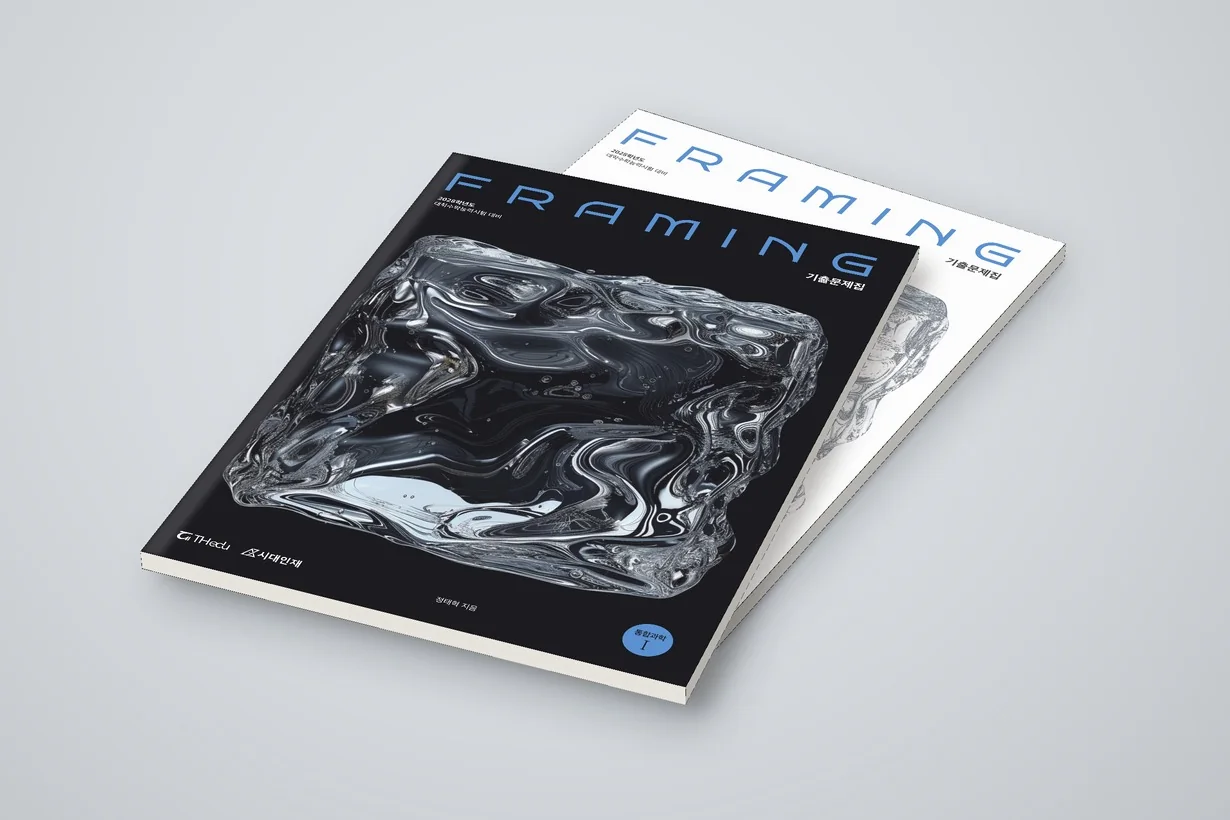
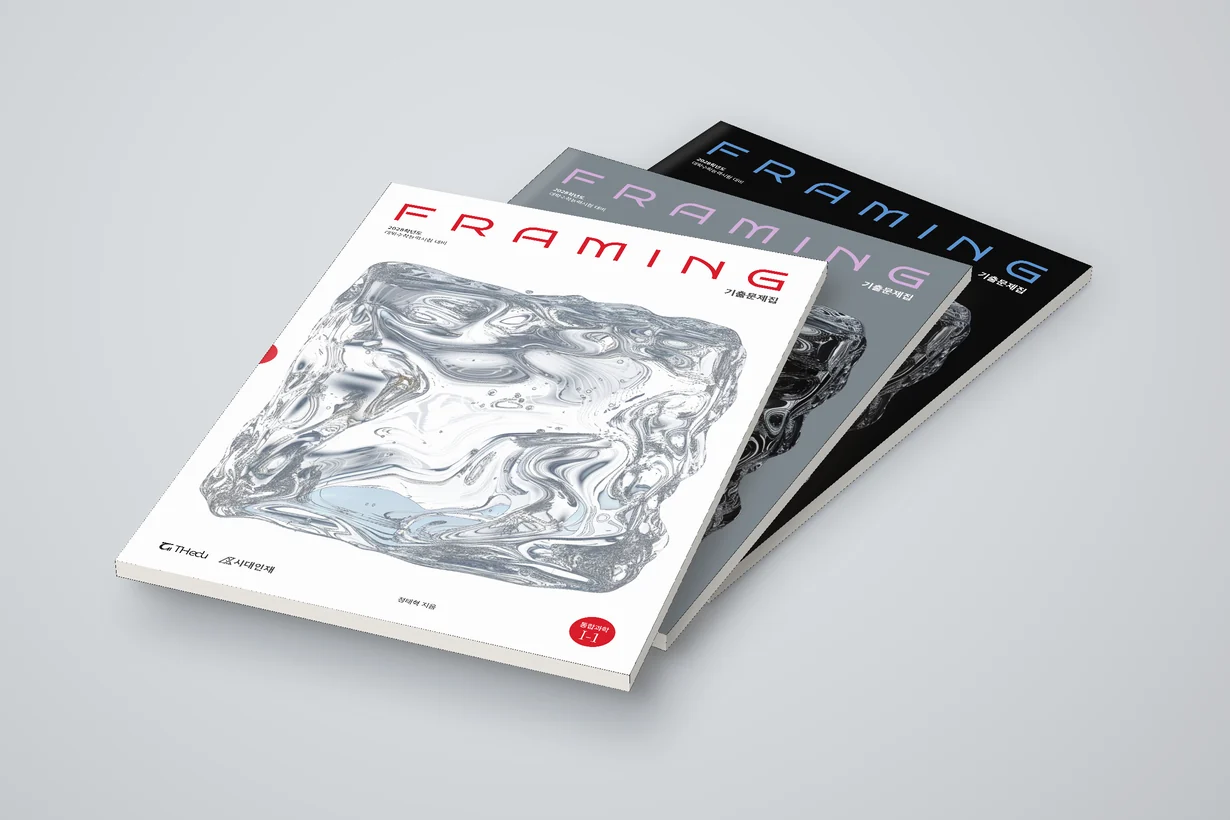
홈·교재 구매: FRAMING 기출문제집 3권(I-1 흰·빨강 맨 위), LINE UP 빨강 위로, LOGIC BUILD 추가
Claude-Session: https://claude.ai/code/session_01VvfvubEaWpfXXiowvcu4dN

diff --git a/lms/templates/home.html b/lms/templates/home.html
@@ -38,7 +38,7 @@
         <img src="{{ url_for('static', filename='img/books/lineup-cover-720.webp') }}"
              srcset="{{ url_for('static', filename='img/books/lineup-cover-720.webp') }} 720w, {{ url_for('static', filename='img/books/lineup-cover.webp') }} 1230w"
              sizes="(max-width: 560px) 100vw, 45vw" width="1230" height="820" loading="lazy"
-             alt="LINE UP 통합과학 I과 II 두 권이 바닥에 비스듬히 겹쳐 놓여 있다">
+             alt="LINE UP 통합과학 II(빨강)와 I 두 권이 바닥에 비스듬히 겹쳐 놓여 있다">
       </figure>
       <div class="book-meta">
         <p class="book-name">LINE UP</p>
@@ -50,11 +50,23 @@
         <img src="{{ url_for('static', filename='img/books/framing-cover-720.webp') }}"
              srcset="{{ url_for('static', filename='img/books/framing-cover-720.webp') }} 720w, {{ url_for('static', filename='img/books/framing-cover.webp') }} 1230w"
              sizes="(max-width: 560px) 100vw, 45vw" width="1230" height="820" loading="lazy"
-             alt="FRAMING 검은 표지와 흰 표지 두 권이 바닥에 비스듬히 겹쳐 놓여 있다">
+             alt="FRAMING 흰 표지(통합과학 I-1), 회색 표지(I-2), 검은 표지(II) 세 권이 바닥에 비스듬히 겹쳐 놓여 있다">
       </figure>
       <div class="book-meta">
         <p class="book-name">FRAMING</p>
-        <p class="book-sub">기출 분석집</p>
+        <p class="book-sub">기출문제집</p>
+      </div>
+    </li>
+    <li class="book-item">
+      <figure class="book-photo">
+        <img src="{{ url_for('static', filename='img/books/logic-cover-720.webp') }}"
+             srcset="{{ url_for('static', filename='img/books/logic-cover-720.webp') }} 720w, {{ url_for('static', filename='img/books/logic-cover.webp') }} 1230w"
+             sizes="(max-width: 560px) 100vw, 45vw" width="1230" height="820" loading="lazy"
+             alt="LOGIC BUILD 앞표지와 뒤표지가 바닥에 비스듬히 겹쳐 놓여 있다">
+      </figure>
+      <div class="book-meta">
+        <p class="book-name">LOGIC BUILD</p>
+        <p class="book-sub">심층 분석서</p>
       </div>
     </li>
     <li class="book-item">

diff --git a/lms/views/books.py b/lms/views/books.py
@@ -194,9 +194,10 @@ def clear_entry(mid):
 # ---------- 강사 ----------
 
 # 첫 화면(로그인 전) 교재 표지마다 붙는 구매 링크. 열쇠: settings 'buy_<key>'
-SHOP_BOOKS = [("lineup", "LINE UP", "개념서"), ("framing", "FRAMING", "기출 분석집"),
+SHOP_BOOKS = [("lineup", "LINE UP", "개념서"), ("framing", "FRAMING", "기출문제집"), ("logic", "LOGIC BUILD", "심층 분석서"),
               ("squeeze", "Squeeze", "주간지 Season 1&2"), ("sweep", "SWEEP", "주간지 Season 3")]
-SHOP_ALT = {"lineup": "LINE UP 통합과학 I과 II 두 권", "framing": "FRAMING 검은 표지와 흰 표지 두 권",
+SHOP_ALT = {"lineup": "LINE UP 통합과학 II(빨강)와 I 두 권", "framing": "FRAMING 흰 표지(통합과학 I-1), 회색 표지(I-2), 검은 표지(II) 세 권",
+            "logic": "LOGIC BUILD 앞표지와 뒤표지",
             "squeeze": "Squeeze Season 1과 Season 2 주간지 두 권", "sweep": "SWEEP 주간지 앞표지와 보라색 뒤표지"}
 
 
